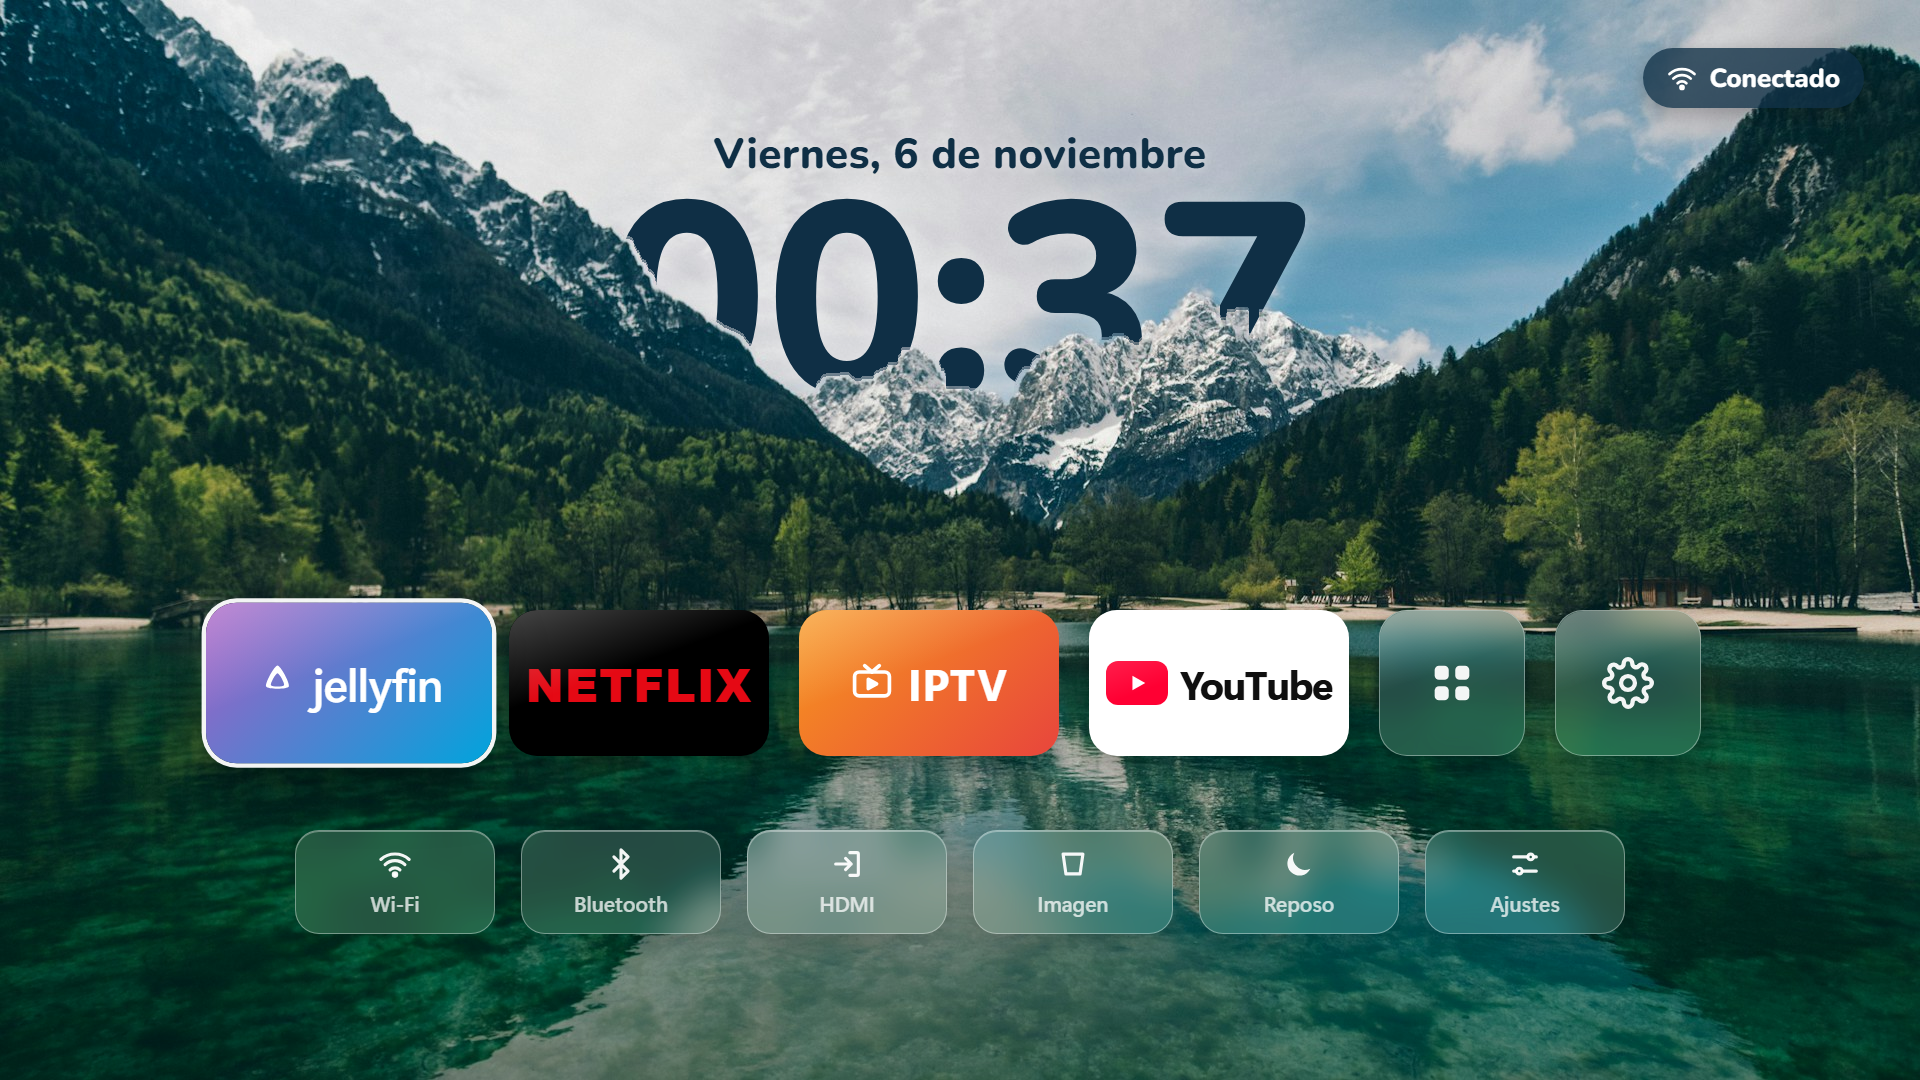
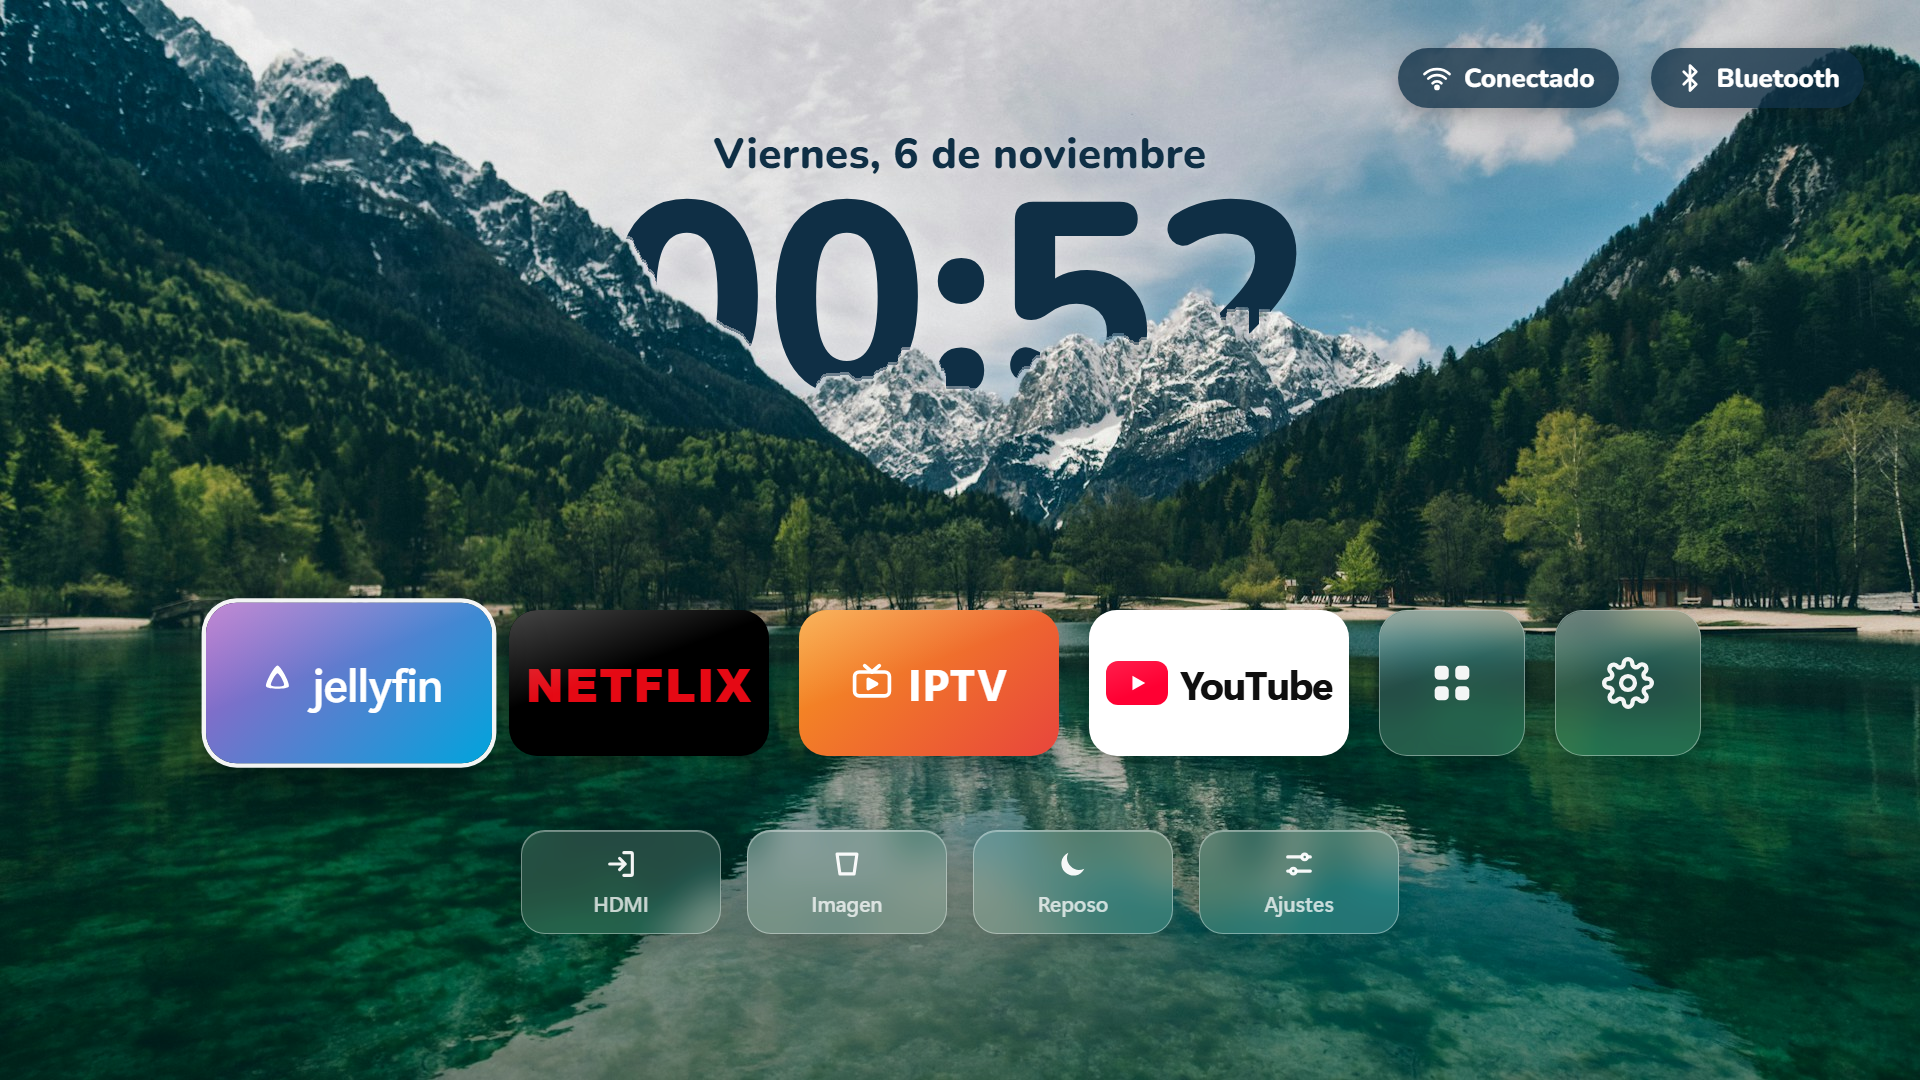
Botones de Wi-Fi y Bluetooth arriba a la derecha
El de Wi-Fi muestra el nombre de la red y el de Bluetooth el aparato conectado; los dos se eligen con el mando. La hora sigue detrás de las montañas.

diff --git a/hy300-launcher/assets/index.html b/hy300-launcher/assets/index.html
@@ -55,6 +55,12 @@
     box-shadow: 0 6px 20px rgba(0,0,0,.25);
   }
   #wifi.off { background: rgba(170,40,40,.85); }
+  #bt { background: rgba(15,47,69,.78); color: #fff; font-family: "Nunito", sans-serif; font-weight: 800; font-size: 26px; box-shadow: 0 6px 20px rgba(0,0,0,.25); }
+  #bt.off { background: rgba(70,80,90,.7); }
+  #bt { margin-left: 16px; }   /* WebView 83 no tiene gap en flex */
+  #status .pill.focus { transform: scale(1.05); box-shadow: 0 0 0 3px rgba(255,255,255,.95), 0 10px 24px rgba(0,0,0,.35); }
+  .pill { max-width: 360px; }
+  .pill span { white-space: nowrap; overflow: hidden; text-overflow: ellipsis; }
 
   /* Nunito: letra redondeada para la fecha y la hora */
   @font-face { font-family: "Nunito"; font-weight: 800; src: url("nunito-800.woff2") format("woff2"); }
@@ -124,10 +130,10 @@
   /* Todas las apps */
   #drawer {
     position: absolute; top: 0; left: 0; right: 0; bottom: 0; display: none;
-    background: rgba(8,18,24,.6);
-    backdrop-filter: blur(30px); -webkit-backdrop-filter: blur(30px);
+    background: rgba(9,16,20,.98);
     overflow-y: auto; scrollbar-width: none;
     padding: 90px 0 120px;
+    z-index: 50;
   }
   #drawer::-webkit-scrollbar { display: none; }
   #drawer.open { display: block; }
@@ -137,6 +143,7 @@
     height: 141px; border-radius: 24px; overflow: hidden;
     display: flex; flex-direction: column; align-items: center; justify-content: center;
     font-size: 21px; font-weight: 500; text-align: center; padding: 0 12px;
+    background: rgba(255,255,255,.08); border: 1.5px solid rgba(255,255,255,.18);
   }
   .dapp img.icon { width: 72px; height: 72px; margin-bottom: 10px; }
   .dapp img.banner { position: absolute; top: 0; left: 0; right: 0; bottom: 0; width: 100%; height: 100%; object-fit: cover; }
@@ -157,9 +164,13 @@
   <div id="shade"></div>
 
   <div id="status">
-    <div class="pill" id="wifi">
+    <div class="pill tile" id="wifi" data-name="Wi‑Fi" data-component="com.htc.htcsettings/com.htc.activity.WIFIActivity" data-action="android.settings.WIFI_SETTINGS">
       <svg viewBox="0 0 24 24" fill="none" stroke="currentColor" stroke-width="2.2" stroke-linecap="round"><path d="M2 8.8a15 15 0 0 1 20 0M5 12.5a10 10 0 0 1 14 0M8.5 16.2a5 5 0 0 1 7 0"/><circle cx="12" cy="19.5" r="1.2" fill="currentColor"/></svg>
       <span id="wifi-text">Conectado</span>
+    </div>
+    <div class="pill tile" id="bt" data-name="Bluetooth" data-component="com.htc.htcsettings/com.htc.activity.BluetoothSettingActivity" data-action="android.settings.BLUETOOTH_SETTINGS">
+      <svg viewBox="0 0 24 24" fill="none" stroke="currentColor" stroke-width="2.2" stroke-linecap="round" stroke-linejoin="round"><path d="M7 7l10 10-5 5V2l5 5L7 17"/></svg>
+      <span id="bt-text">Bluetooth</span>
     </div>
   </div>
 
@@ -183,16 +194,11 @@
 
   <!-- data-component: pantallas propias del HY300; data-action: alternativa estándar de Android -->
   <div class="row" id="quick">
-    <div class="tile qs glass" data-name="Wi‑Fi" data-component="com.htc.htcsettings/com.htc.activity.WIFIActivity" data-action="android.settings.WIFI_SETTINGS">
-      <svg viewBox="0 0 24 24" fill="none" stroke="currentColor" stroke-width="2.2" stroke-linecap="round"><path d="M2 8.8a15 15 0 0 1 20 0M5 12.5a10 10 0 0 1 14 0M8.5 16.2a5 5 0 0 1 7 0"/><circle cx="12" cy="19.5" r="1.2" fill="currentColor"/></svg>Wi‑Fi
-    </div>
-    <div class="tile qs glass" data-name="Bluetooth" data-component="com.htc.htcsettings/com.htc.activity.BluetoothSettingActivity" data-action="android.settings.BLUETOOTH_SETTINGS">
-      <svg viewBox="0 0 24 24" fill="none" stroke="currentColor" stroke-width="2.2" stroke-linecap="round" stroke-linejoin="round"><path d="M7 7l10 10-5 5V2l5 5L7 17"/></svg>Bluetooth
-    </div>
     <div class="tile qs glass" data-name="HDMI" data-component="com.softwinner.awsource/.MainActivity" data-action="android.settings.SETTINGS">
       <svg viewBox="0 0 24 24" fill="none" stroke="currentColor" stroke-width="2.2" stroke-linecap="round" stroke-linejoin="round"><path d="M14 4h5a1 1 0 0 1 1 1v14a1 1 0 0 1-1 1h-5M4 12h11M11 8l4 4-4 4"/></svg>HDMI
     </div>
-    <div class="tile qs glass" data-name="Imagen" data-component="com.htc.htcsettings/com.htc.activity.ProjectionActivity3" data-action="android.settings.SETTINGS">
+    <!-- Según el firmware, la pantalla de enfoque/trapecio es ProjectionActivity3 o ProjectionActivity -->
+    <div class="tile qs glass" data-name="Imagen" data-component="com.htc.htcsettings/com.htc.activity.ProjectionActivity3,com.htc.htcsettings/com.htc.activity.ProjectionActivity" data-action="android.settings.DISPLAY_SETTINGS">
       <svg viewBox="0 0 24 24" fill="none" stroke="currentColor" stroke-width="2.2" stroke-linejoin="round"><path d="M5 5h14l-2 14H7z"/></svg>Imagen
     </div>
     <div class="tile qs glass" data-name="Reposo" data-action="screensaver">
@@ -231,12 +237,27 @@
   }
   tick(); setInterval(tick, 1000);
 
-  function updateWifi() {
-    const on = navigator.onLine;
-    document.getElementById('wifi').classList.toggle('off', !on);
-    document.getElementById('wifi-text').textContent = on ? 'Conectado' : 'Sin conexión';
+  // Botones de arriba: nombre de la red Wi‑Fi y aparato Bluetooth conectado (los da Android.netStatus)
+  function updateNet() {
+    let st = null;
+    try { st = (window.Android && Android.netStatus) ? JSON.parse(Android.netStatus()) : null; } catch (e) {}
+    const wifiEl = document.getElementById('wifi');
+    const wifiTxt = document.getElementById('wifi-text');
+    const btEl = document.getElementById('bt');
+    const btTxt = document.getElementById('bt-text');
+    if (st) {
+      wifiEl.classList.toggle('off', !st.online);
+      wifiTxt.textContent = st.online ? (st.ssid || 'Conectado') : 'Sin conexión';
+      btEl.classList.toggle('off', !st.btOn);
+      btTxt.textContent = st.btOn ? (st.bt || 'Bluetooth') : 'Bluetooth';
+    } else {
+      const on = navigator.onLine;
+      wifiEl.classList.toggle('off', !on);
+      wifiTxt.textContent = on ? 'Conectado' : 'Sin conexión';
+    }
   }
-  addEventListener('online', updateWifi); addEventListener('offline', updateWifi); updateWifi();
+  addEventListener('online', updateNet); addEventListener('offline', updateNet); updateNet();
+  setInterval(updateNet, 8000);
 
   let toastTimer;
   function toast(msg) {
@@ -248,8 +269,12 @@
   }
 
   // --- Pantalla principal ---
-  const rows = [...document.querySelectorAll('.row')].map(r => [...r.querySelectorAll('.tile')]);
-  let r = 0, c = 0;
+  // Fila 0: botones de Wi‑Fi y Bluetooth de arriba; se empieza en la fila de apps
+  const rows = [
+    [...document.querySelectorAll('#status .tile')],
+    ...[...document.querySelectorAll('.row')].map(r => [...r.querySelectorAll('.tile')])
+  ];
+  let r = 1, c = 0;
   function focusHome() {
     document.querySelectorAll('.tile.focus').forEach(t => t.classList.remove('focus'));
     rows[r][c].classList.add('focus');
@@ -260,7 +285,7 @@
     if (action === 'drawer') return openDrawer();
     if (!Native) return toast('Abriendo ' + tile.dataset.name + '…');
     if (action === 'screensaver') return Native.screensaver();
-    if (tile.dataset.component && Native.component(tile.dataset.component)) return;
+    if (tile.dataset.component && tile.dataset.component.split(',').some(cmp => Native.component(cmp))) return;
     if (action) return Native.settings(action);
     if (tile.dataset.pkgs && !Native.launch(tile.dataset.pkgs)) toast(tile.dataset.name + ' no está instalada');
   }
@@ -282,7 +307,7 @@
     grid.innerHTML = '';
     for (const a of apps) {
       const el = document.createElement('div');
-      el.className = 'tile dapp glass';
+      el.className = 'tile dapp';
       el.dataset.pkg = a.pkg;
       el.dataset.name = a.label;
       if (a.img && a.wide) {
@@ -339,7 +364,7 @@
     focusHome();
   };
   window.onResumeHome = function () {
-    tick();
+    tick(); updateNet();
     if (drawer.classList.contains('open')) closeDrawer();
   };
 

diff --git a/hy300-launcher/src/com/hy300/inicio/MainActivity.java b/hy300-launcher/src/com/hy300/inicio/MainActivity.java
@@ -211,5 +211,43 @@ public class MainActivity extends Activity {
             });
             return new JSONArray(list).toString();
         }
+
+        /** Estado de red para los botones de arriba: {online, ssid, btOn, bt}. */
+        @JavascriptInterface
+        public String netStatus() {
+            JSONObject o = new JSONObject();
+            try {
+                android.net.ConnectivityManager cm = (android.net.ConnectivityManager) getSystemService(CONNECTIVITY_SERVICE);
+                android.net.NetworkInfo ni = cm != null ? cm.getActiveNetworkInfo() : null;
+                o.put("online", ni != null && ni.isConnected());
+                String ssid = "";
+                android.net.wifi.WifiManager wm = (android.net.wifi.WifiManager) getApplicationContext().getSystemService(WIFI_SERVICE);
+                if (wm != null && wm.isWifiEnabled()) {
+                    android.net.wifi.WifiInfo wi = wm.getConnectionInfo();
+                    if (wi != null && wi.getSSID() != null) {
+                        String s = wi.getSSID().replace("\"", "");
+                        if (!s.isEmpty() && !s.equalsIgnoreCase("<unknown ssid>") && !s.equals("0x")) ssid = s;
+                    }
+                }
+                o.put("ssid", ssid);
+                String bt = "";
+                android.bluetooth.BluetoothAdapter ba = android.bluetooth.BluetoothAdapter.getDefaultAdapter();
+                boolean btOn = ba != null && ba.isEnabled();
+                o.put("btOn", btOn);
+                if (btOn) {
+                    // isConnected() está oculto en el SDK; se llama por reflexión
+                    for (android.bluetooth.BluetoothDevice d : ba.getBondedDevices()) {
+                        try {
+                            java.lang.reflect.Method m = d.getClass().getMethod("isConnected");
+                            if (Boolean.TRUE.equals(m.invoke(d))) { bt = d.getName(); break; }
+                        } catch (Exception ignored) {}
+                    }
+                }
+                o.put("bt", bt);
+            } catch (Exception e) {
+                try { o.put("err", e.toString()); } catch (Exception ignored) {}
+            }
+            return o.toString();
+        }
     }
 }

diff --git a/README.md b/README.md
@@ -7,8 +7,8 @@ Una pantalla de inicio "tipo Apple" para el proyector **Magcubic HY300** (Androi
 - Fondo de un lago con montañas, y **la hora escondida detrás de las montañas** (efecto profundidad).
 - Hora y fecha en **azul oscuro y gruesas**, para que se lean bien proyectadas sobre una pared blanca.
 - Botones grandes para **Jellyfin, Netflix, IPTV y YouTube**, más "Todas las apps" y Ajustes.
-- Fila de accesos rápidos del proyector: **Wi‑Fi, Bluetooth, HDMI, Imagen** (enfoque/trapecio), **Reposo** y **Ajustes**.
-- Indicador de **Wi‑Fi** arriba a la derecha.
+- Arriba a la derecha, botones de **Wi‑Fi** (con el nombre de tu red) y **Bluetooth** (con el aparato conectado, por ejemplo unos auriculares). Se eligen con el mando y abren sus ajustes.
+- Fila de accesos rápidos del proyector: **HDMI**, **Imagen** (enfoque/trapecio), **Reposo** y **Ajustes**.
 - Todo se maneja con las flechas y el OK del mando.
 
 ![Todas las apps](docs/todas-las-apps.png)
